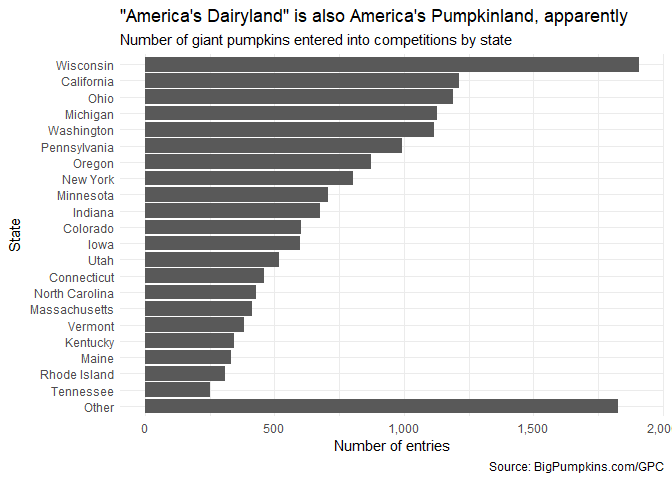
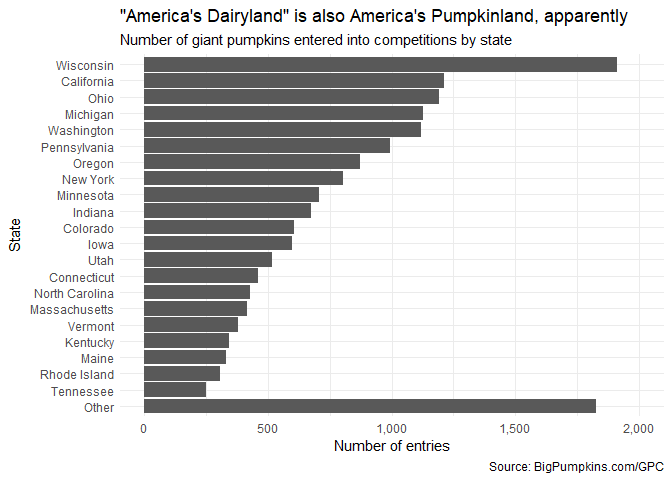
Various minor fixes

diff --git a/pumpkins.md b/pumpkins.md
@@ -200,7 +200,8 @@ pumpkins_usa %>%
     subtitle = "Number of giant pumpkins entered into competitions by state",
     caption = "Source: BigPumpkins.com/GPC"
   ) +
-  scale_x_continuous(labels = comma) +
+  scale_x_continuous(labels = comma, expand = expansion(mult = c(0.05, 0.1))) +
+  #`expand` argument to make full "2,000" label appear
   theme_minimal() +
   theme(axis.title.y = element_text(margin = margin(r = 6))) #Nudge label left
 ```
@@ -251,7 +252,7 @@ pumpkins_usa %>%
     subtitle = "Number of giant pumpkins entered into competitions by state",
     caption = "Source: BigPumpkins.com/GPC"
   ) +
-  scale_x_continuous(labels = comma) +
+  scale_x_continuous(labels = comma, expand = expansion(mult = c(0.05, 0.1))) +
   theme_minimal() +
   theme(axis.title.y = element_text(margin = margin(r = 6))) #Nudge label left
 ```
@@ -284,16 +285,16 @@ pumpkins_usa %>%
   ) %>%
   ggplot(aes(x = weight_lbs, y = state_prov)) +
   geom_density_ridges(alpha = 0.7) +
+  scale_x_continuous(label = comma) +
   labs(
     x = "Weight of pumpkin (lbs)",
     y = "State",
     title = "The modal pumpkin doesn't vary much, but the tail gets heavier",
     subtitle = "Density of giant pumpkin weights by state (states with 50+ pumpkins shown)",
     caption = "Source: BigPumpkins.com/GPC"
-  )
+  ) +
+  theme_minimal()
 ```
-
-    ## Picking joint bandwidth of 123
 
 ![](pumpkins_files/figure-gfm/biggest-weight-1.png)<!-- -->
 
